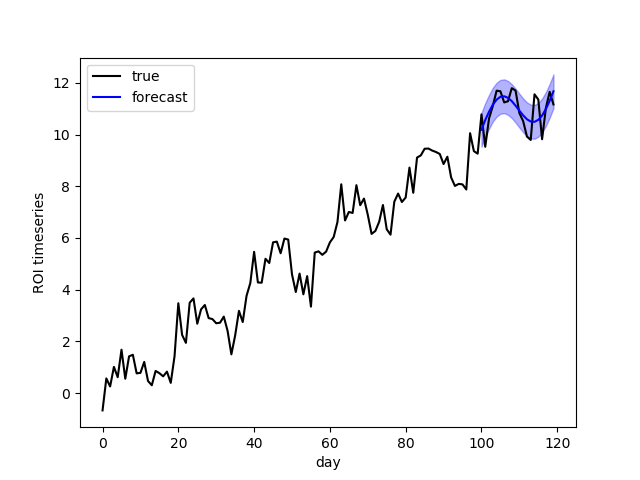
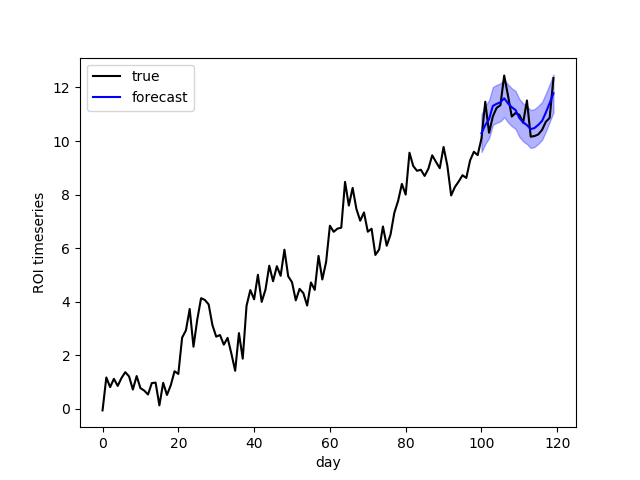
add error envelopes

diff --git a/scratch/scratch.py b/scratch/scratch.py
@@ -2,154 +2,6 @@ import numpy as np
 import pandas as pd
 import divinity as dv
 import matplotlib.pyplot as plt
-import sklearn.linear_model
-import statsmodels.tsa.arima_model as arima_model
-from functools import wraps
-import inspect
-import warnings
-
-
-def get_error(yres, conf_limit = 95):
-    ordered_y_res = np.sort(yres)
-    N = len(ordered_y_res)
-    idx_lo = int((100. - conf_limit) / 2 / 100 * N)
-    idx_hi = int(100 - (100. - conf_limit) / 2 / 100 * N)
-    return ordered_y_res[idx_hi] - ordered_y_res[idx_lo]  # *np.std(self._trend_pred_res)
-
-
-def initializer(func):
-    """
-    Automatically assigns the class input parameters.
-    """
-    names, varargs, keywords, defaults, \
-    kwonlyargs, kwonlydefaults, annotations = inspect.getfullargspec(func)
-
-    @wraps(func)
-    def wrapper(self, *args, **kargs):
-        for name, arg in list(zip(names[1:], args)) + list(kargs.items()):
-            setattr(self, name, arg)
-
-        for name, default in zip(reversed(names), reversed(defaults)):
-            if not hasattr(self, name):
-                setattr(self, name, default)
-
-        func(self, *args, **kargs)
-
-    return wrapper
-
-class divinity:
-    @initializer
-    def __init__(self,
-                 forecast_length,
-                 confidence_interval = 95.0,
-                 seasonal_periods = [7,14.,28.,30.,90.,120.,182.,365.],
-                 trend_order = [0,1],
-                 trend_seasonal_model = sklearn.linear_model.RidgeCV(alphas=(0.1, 1.0, 10.0),
-                                                                     fit_intercept=False,
-                                                                     normalize=False,
-                                                                     scoring=None,
-                                                                     cv=None,
-                                                                     gcv_mode=None,
-                                                                     store_cv_values=False),
-                 residual_model = arima_model.ARIMA,
-                 residual_model_kwargs = {'order':(2,0,2),'exog':None},
-                 residual_model_fit_kwargs = {'trend':'nc', 'disp':0}):
-        self.features = None
-        self._Ntot = None
-        self._N = None
-        #pass
-
-    def _prep_features(self,N):
-        '''
-        prepare the feature matrix given the stated trend_order
-        seasonal_periods arguments
-        N should be the length of the training data plus the length of the
-        required forecast
-        :return:
-        '''
-        seasonality = dv.gen_season(N, periods=self.seasonal_periods, sine_amplitudes=None, cosine_amplitudes=None)
-        trend = dv.gen_trend(N, coef=self.trend_order, amplitudes=None)
-        self.features = pd.concat([trend['features'], seasonality['features']], axis=1)
-
-    def _fit_trend_season(self, y):
-        '''
-        fit the trend and seasonal components
-        :param X:
-        :param y:
-        :return:
-        '''
-        if self._N is None:
-            self._N = len(y)
-        if self._Ntot is None:
-            self._Ntot = self._N + self.forecast_length
-        if self.features is None:
-            self._prep_features(self._Ntot)
-        self.trend_seasonal_model.fit(self.features[:self._N],y)
-
-        #compute the model residuals to pass on
-        # to the residual model
-        self._trend_all = self.trend_seasonal_model.predict(self.features)
-        self._trend_pred_res = y - self._trend_all[:self._N]
-        sig = get_error(self._trend_pred_res, conf_limit=self.confidence_interval)
-        self._trend_forecast_err = np.ones(self.forecast_length)*sig#*np.std(self._trend_pred_res)
-
-    def _fit_residual_model(self):
-        '''
-        fit the arima residual model to mop up
-        any predictive power missed by the trend/
-        seasonality
-        :return:
-        '''
-        self._live_res_model = self.residual_model(self._trend_pred_res, **self.residual_model_kwargs)
-        try:
-            self._live_res_model_fit = self._live_res_model.fit()
-            forecast = self._live_res_model_fit.predict(start=0, end=self._Ntot-1)
-            self._yres_all = forecast
-            self._yres_forecast = forecast[self._N:]
-            sig = get_error(forecast[:self._N] - self._trend_pred_res, conf_limit=self.confidence_interval)
-            self._yres_forecast_err = sig*np.ones(self.forecast_length)
-            #self._trend_forecast_err
-
-            #forecast = self._live_res_model_fit.forecast(steps = self.forecast_length)
-            #forecast['forecast'], forecast['stderr'], forecast['conf_int']
-            #self._yres_forecast = forecast['forecast']
-            #self._yres_pred_std = forecast['stderr']
-        except:
-            warnings.warn("Residual ARIMA model failure... Using only trend and seasonal components.")
-            self._yres_forecast = np.zeros(self.forecast_length)
-            self._yres_forecast_err = np.zeros(self.forecast_length)
-
-    def fit(self,y):
-        '''
-        combine the above steps into a general fit function
-        :param X:
-        :param y:
-        :return:
-        '''
-        #fit the trend and seasonal components
-        self._fit_trend_season(y)
-
-        #fit the residual arima model
-        self._fit_residual_model()
-
-    def predict(self):
-        '''
-        return the foreward forecast for Nsteps specified by the
-        forecast_length input argument
-        :return:
-        '''
-        self.ypred = self._yres_forecast + self._trend_all[self._N:]
-        self.ystd = np.sqrt(self._yres_forecast_err**2 + self._trend_forecast_err**2)/2
-        return self.ypred
-
-
-
-
-
-
-
-
-
 
 
 if __name__ == '__main__':

diff --git a/divinity/__init__.py b/divinity/__init__.py
@@ -83,12 +83,13 @@ def gen_fake(N, trend_order,
 
 
 
+
 def get_error(yres, conf_limit = 95):
     ordered_y_res = np.sort(yres)
     N = len(ordered_y_res)
     idx_lo = int((100. - conf_limit) / 2 / 100 * N)
     idx_hi = int(100 - (100. - conf_limit) / 2 / 100 * N)
-    return ordered_y_res[idx_hi] - ordered_y_res[idx_lo]  # *np.std(self._y_res)
+    return ordered_y_res[idx_hi] - ordered_y_res[idx_lo]  # *np.std(self._trend_pred_res)
 
 
 def initializer(func):
@@ -162,10 +163,10 @@ class divinity:
 
         #compute the model residuals to pass on
         # to the residual model
-        self._y_model = self.trend_seasonal_model.predict(self.features)
-        self._y_res = y - self._y_model[:self._N]
-        sig = get_error(self._y_res, conf_limit=self.confidence_interval)
-        self._y_model_err = np.ones(self.forecast_length)*sig#*np.std(self._y_res)
+        self._trend_all = self.trend_seasonal_model.predict(self.features)
+        self._trend_pred_res = y - self._trend_all[:self._N]
+        sig = get_error(self._trend_pred_res, conf_limit=self.confidence_interval)
+        self._trend_forecast_err = np.ones(self.forecast_length)*sig#*np.std(self._trend_pred_res)
 
     def _fit_residual_model(self):
         '''
@@ -174,23 +175,24 @@ class divinity:
         seasonality
         :return:
         '''
-        self._live_res_model = self.residual_model(self._y_res, **self.residual_model_kwargs)
+        self._live_res_model = self.residual_model(self._trend_pred_res, **self.residual_model_kwargs)
         try:
             self._live_res_model_fit = self._live_res_model.fit()
             forecast = self._live_res_model_fit.predict(start=0, end=self._Ntot-1)
-            self._yres_pred_forecast = forecast[self._N:]
-            sig = get_error(forecast[:self._N] - self._y_res, conf_limit=self.confidence_interval)
-            self._yres_pred_err = sig*np.ones(self.forecast_length)
-
+            self._yres_all = forecast
+            self._yres_forecast = forecast[self._N:]
+            sig = get_error(forecast[:self._N] - self._trend_pred_res, conf_limit=self.confidence_interval)
+            self._yres_forecast_err = sig*np.ones(self.forecast_length)
+            #self._trend_forecast_err
 
             #forecast = self._live_res_model_fit.forecast(steps = self.forecast_length)
             #forecast['forecast'], forecast['stderr'], forecast['conf_int']
-            #self._yres_pred_forecast = forecast['forecast']
+            #self._yres_forecast = forecast['forecast']
             #self._yres_pred_std = forecast['stderr']
         except:
             warnings.warn("Residual ARIMA model failure... Using only trend and seasonal components.")
-            self._yres_pred_forecast = np.zeros(self.forecast_length)
-            self._yres_pred_err = np.zeros(self.forecast_length)
+            self._yres_forecast = np.zeros(self.forecast_length)
+            self._yres_forecast_err = np.zeros(self.forecast_length)
 
     def fit(self,y):
         '''
@@ -208,12 +210,11 @@ class divinity:
     def predict(self):
         '''
         return the foreward forecast for Nsteps specified by the
-        forecast_length input argument
+        forecast_length input argument.
         :return:
         '''
-        self.ypred = self._yres_pred_forecast + self._y_model[self._N:]
-        self.ystd = np.sqrt(self._yres_pred_err**2 + self._y_model_err**2)/2
+        self.ypred = self._yres_forecast + self._trend_all[self._N:]
+        self.ystd = np.sqrt(self._yres_forecast_err**2 + self._trend_forecast_err**2)/2
         return self.ypred
-
 
 
